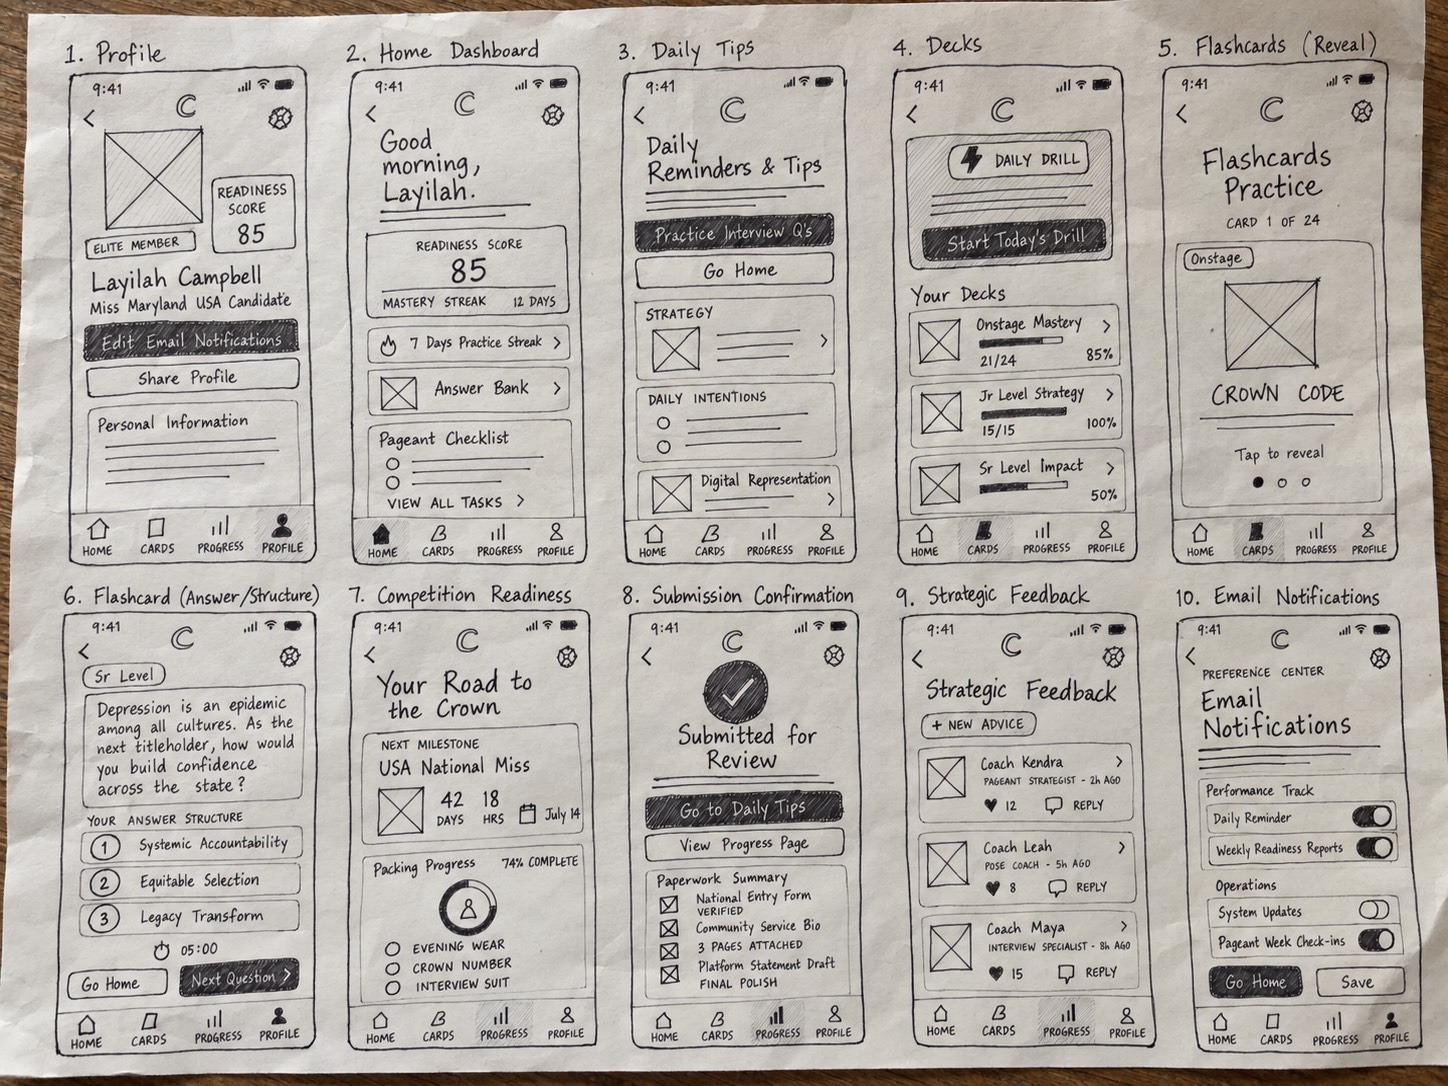
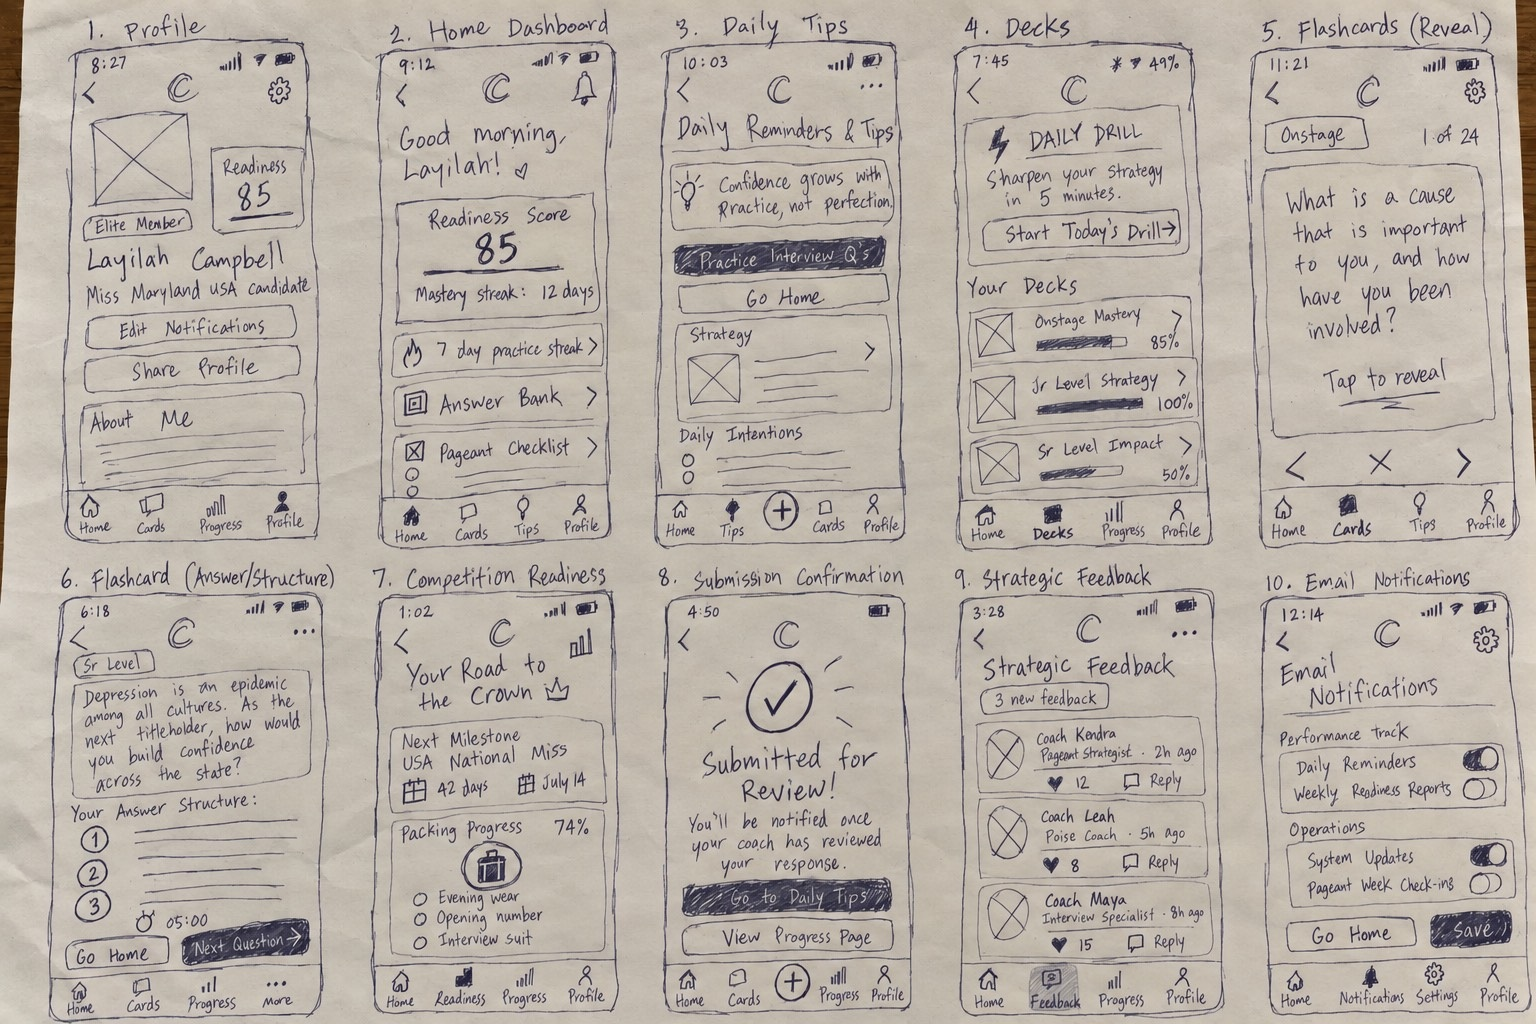
Crown Code: replace the wireframe sketches with the new sketch sheet
Claude-Session: https://claude.ai/code/session_01GwEFzAyK7Ej1XsMyYeW86X

diff --git a/js/data.js b/js/data.js
@@ -597,7 +597,7 @@ window.PORTFOLIO = {
 
       ideate: {
         summary:
-          "I started on paper, sketching ten screens: the profile, home dashboard, daily tips, decks, two flashcard states (reveal and answer structure), competition readiness, submission confirmation, strategic feedback and email notifications. All of them sit under the same four tabs: Home, Cards, Progress and Profile.",
+          "I started on paper, sketching ten screens: the profile, home dashboard, daily tips, decks, two flashcard states (reveal and answer structure), competition readiness, submission confirmation, strategic feedback and email notifications. The bottom navigation changed from sketch to sketch while I worked out what belonged there, and the final design settled on four tabs: Home, Cards, Progress and Profile.",
         image: [{ src: "assets/img/crown-sketches.jpg", fit: "wide", caption: "Ten paper sketches: profile, home dashboard, daily tips, decks, flashcards (reveal and answer structure), competition readiness, submission confirmation, strategic feedback and email notifications." }]
       },
 
